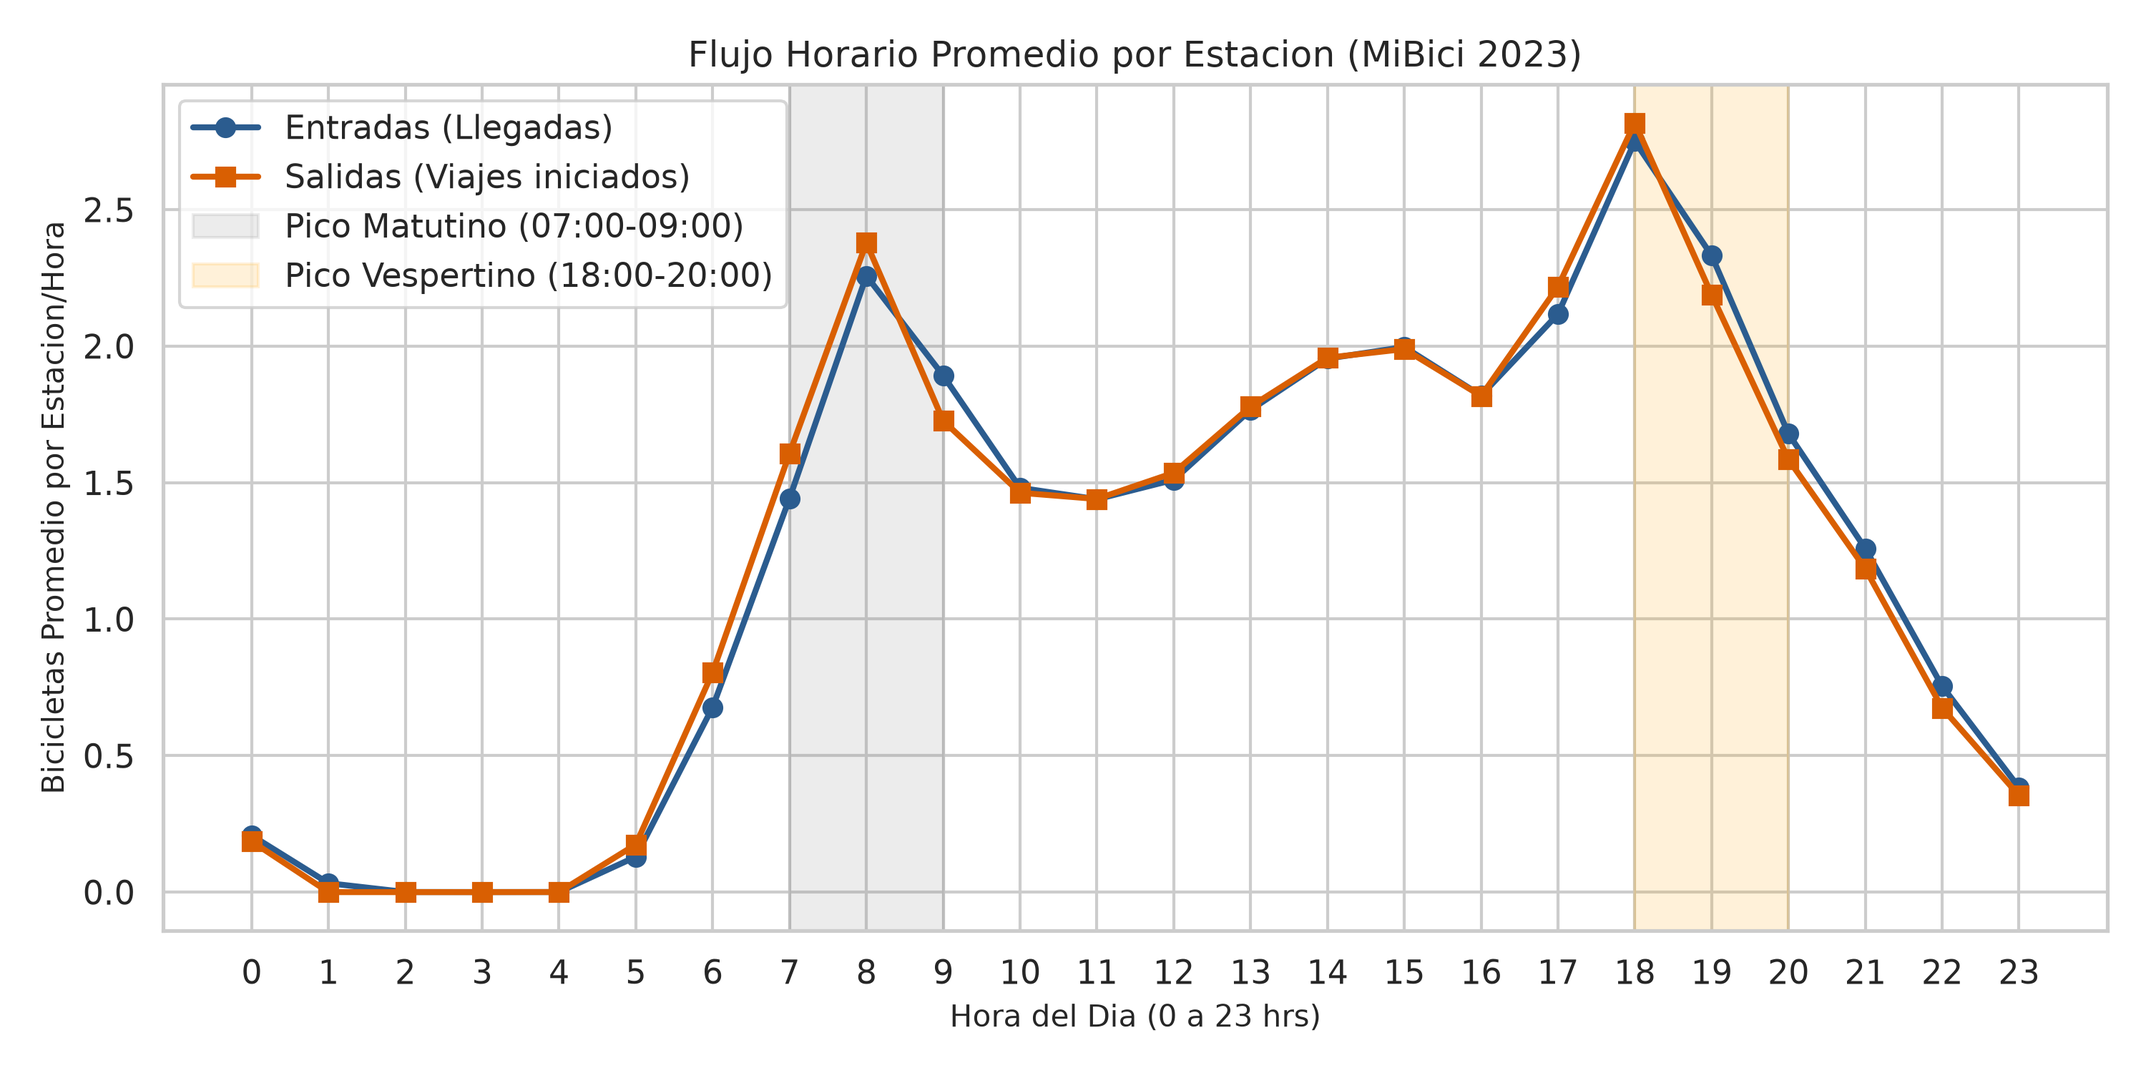
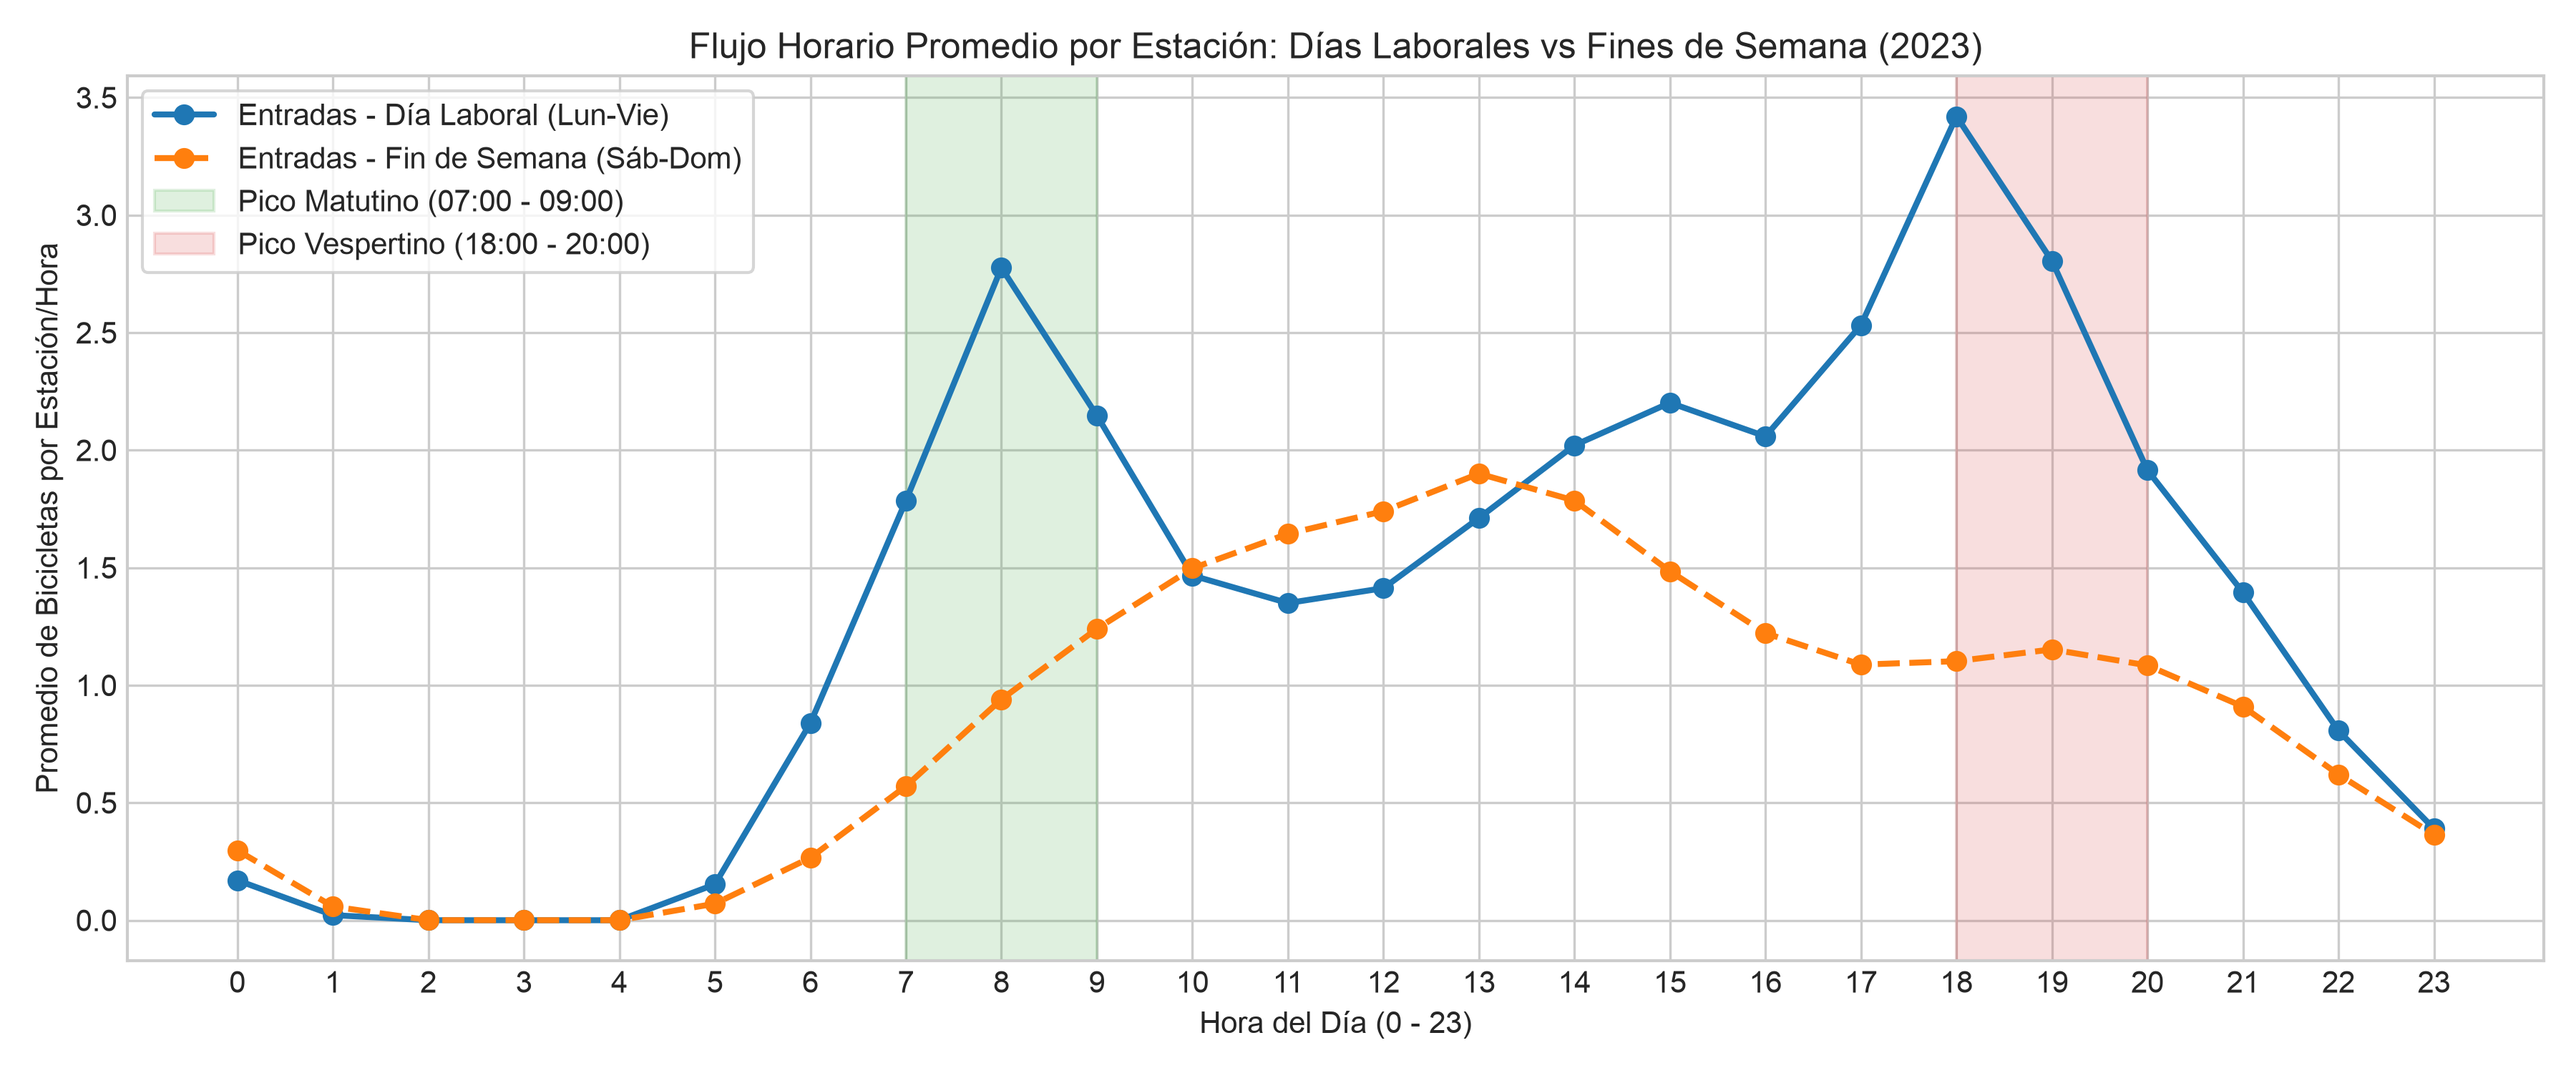
feat(eda): add interactive eda notebook and generated figures

Changed region(s): [[0.0, 0.0307, 0.992, 0.9813], [0.403, 0.736, 0.62, 0.7667]]

diff --git a/mibici/config.py b/mibici/config.py
@@ -1,24 +1,41 @@
 from pathlib import Path
 
-# Directorio raíz del proyecto
-PROJECT_DIR = Path(__file__).resolve().parents[1]
+from dotenv import load_dotenv
+from loguru import logger
 
-# Rutas de datos estructuradas
-DATA_DIR = PROJECT_DIR / "data"
+# Load environment variables from .env file if it exists
+load_dotenv()
+
+# Paths
+PROJ_ROOT = Path(__file__).resolve().parents[1]
+logger.info(f"PROJ_ROOT path is: {PROJ_ROOT}")
+
+DATA_DIR = PROJ_ROOT / "data"
 RAW_DATA_DIR = DATA_DIR / "raw"
 INTERIM_DATA_DIR = DATA_DIR / "interim"
 PROCESSED_DATA_DIR = DATA_DIR / "processed"
+EXTERNAL_DATA_DIR = DATA_DIR / "external"
 
-# Rutas de modelos y reportes
-MODELS_DIR = PROJECT_DIR / "models"
-REPORTS_DIR = PROJECT_DIR / "reports"
+MODELS_DIR = PROJ_ROOT / "models"
+
+REPORTS_DIR = PROJ_ROOT / "reports"
 FIGURES_DIR = REPORTS_DIR / "figures"
 
-# Asegurar directorios de salida
-for directory in [INTERIM_DATA_DIR, PROCESSED_DATA_DIR, MODELS_DIR, FIGURES_DIR]:
+# Ensure output directories exist
+for directory in [INTERIM_DATA_DIR, PROCESSED_DATA_DIR, EXTERNAL_DATA_DIR, MODELS_DIR, FIGURES_DIR]:
     directory.mkdir(parents=True, exist_ok=True)
 
-# Parámetros del proyecto
+# Project Parameters - MiBici 2023
 TARGET_YEAR = 2023
 MLFLOW_TRACKING_URI = "http://localhost:5001"
 MLFLOW_EXPERIMENT_NAME = "mibici_balance_estaciones_2023"
+
+# If tqdm is installed, configure loguru with tqdm.write
+# https://github.com/Delgan/loguru/issues/135
+try:
+    from tqdm import tqdm
+
+    logger.remove(0)
+    logger.add(lambda msg: tqdm.write(msg, end=""), colorize=True)
+except ModuleNotFoundError:
+    pass
